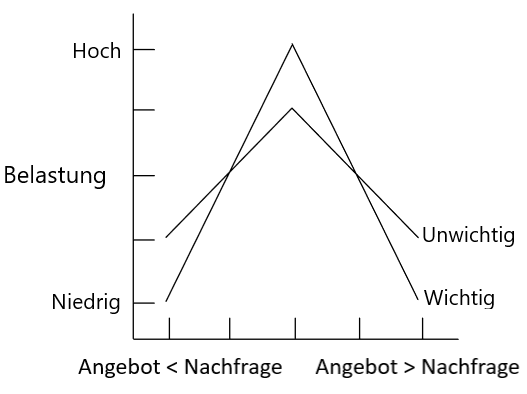
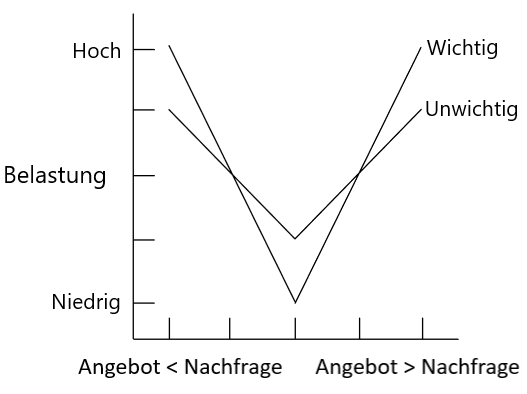
wip

diff --git a/chapters/personEnvironmentFit.tex b/chapters/personEnvironmentFit.tex
@@ -126,7 +126,7 @@ Unterschiedliche Publikationen stellten fest, dass der Verlauf der Kurven nicht 
 %\textcite[S. 18]{locke:1969}
 \textcite[S. 16]{harrison:1985} schlug vor, den \ac{PEFit} für jede untersuchte Dimension einzeln zu berechnen und die Ergebnisse jeweils mit einem Wichtigkeitswert zu multiplizieren. Diese Einschätzung teilt auch \textcite[S. 8ff.]{locke:1976}. Er gilt als einflussreicher Wissenschaftler auf dem Gebiet der Arbeitszufriedenheit \cite[S. 12]{edwards:2008}. Diese kann laut \textcite[S. 8]{locke:1969} nur entstehen, wenn Mitarbeiter das Gefühl haben, für sie als wichtig erachtete berufliche Werte durch ihre Tätigkeit zu erfüllen. Aus diesem Grund empfahl er zur Berechnung der Arbeitszufriedenheit eines Angestellten zwei Kennzahlen heranzuziehen: Die Differenz aus wahrgenommener und gewünschter Menge eines Wertes und die subjektive Wichtigkeit des Motivs \cite[S. 8ff.]{locke:1976}. Ein Beispiel für eine Multiplikation mit algebraischer Differenz ist in folgender Gleichung \ref{fig:personEnvironmentFit:wichtigkeiten:formel1} dargestellt \cite[S. 10]{locke:1976}.
 \begin{equation}
-	Y = b * (P - E)
+	Y = b * (E - P)
 	\label{fig:personEnvironmentFit:wichtigkeiten:formel1}
 \end{equation}
 In Gleichung \ref{fig:personEnvironmentFit:wichtigkeiten:formel1} steht $Y$ für das untersuchte Ergebnis wie beispielsweise die Arbeitszufriedenheit. $b$ stellt den subjektiven Wichtigkeitswert dar. Dieser wird mit der Differenz aus gewünschter Menge eines Wertes einer Person $P$ und wahrgenommener Menge des Wertes der Umgebung $E$ multipliziert \cite[S. 10]{locke:1976}.
@@ -145,7 +145,7 @@ Derartige Multiplikationen mit einem Differenzwert haben zur Folge, dass die in 
 	\label{fig:personEnvironmentFit:wichtigkeiten:abb1}
 \end{figure}
 \newpage
-Im linken Teil (a) von Abbildung \ref{fig:personEnvironmentFit:wichtigkeiten:abb1} ist eine lineare Funktion basierend auf einer algebraischen Differenzberechnung dargestellt. Die rechte Seite der Grafik (b) zeigt den Verlauf einer Berechnung mit negativer absoluter Differenz. In beiden Darstellungen ist zu erkennen, dass die Kurven bei fehlender Wichtigkeit ausschließlich im mittleren Bereich verlaufen. Ist einem Individuum das jeweilige Bedürfnis dagegen wichtig, füllt die Kurve den gesamten verfügbaren Bereich von niedrig bis hoch. Dieses Vorgehen führt zur Stauchung der Funktionsgraphen und damit zu einem stärkeren Ansteigen bzw. Absinken der Belastung des Individuums. \cite[S. 8ff.]{locke:1976}
+Im linken Teil (a) von Abbildung \ref{fig:personEnvironmentFit:wichtigkeiten:abb1} ist eine monotone Funktion basierend auf einer algebraischen Differenzberechnung dargestellt. Die rechte Seite der Grafik (b) zeigt den Verlauf einer Berechnung mit absoluter Differenz. In beiden Darstellungen ist zu erkennen, dass die Kurven bei fehlender Wichtigkeit ausschließlich im mittleren Bereich verlaufen. Ist einem Individuum das jeweilige Bedürfnis dagegen wichtig, füllt die Kurve den gesamten verfügbaren Bereich von niedrig bis hoch. Dieses Vorgehen führt zur Stauchung der Funktionsgraphen und damit zu einem stärkeren Ansteigen bzw. Absinken der Belastung des Individuums.
 
 Derartige Berechnungen kritisierte \textcite[S. 51ff.]{edwards:1991}\cite[S. 9ff.]{edwards:1990}\cite[S. 2ff.]{edwards:1993}\cite[S. 2ff.]{edwards:1993b} in mehreren seiner Arbeiten. Dabei diskutierte er insbesondere die Multiplikation mit dem Differenzwert. Er ist der Auffassung, dass die aus der Differenzberechnung resultierenden zweidimensionalen Grafiken die Komplexität eines \acp{PEFit} nicht vollständig abbilden. Deshalb schlug er vor, die Berechnungen mittels Regressionsgleichungen durchzuführen \cite[S. 51ff.]{edwards:1991}\cite[S. 9ff.]{edwards:1990}\cite[S. 2ff.]{edwards:1993}\cite[S. 1ff.]{edwards:1993b}.
 
